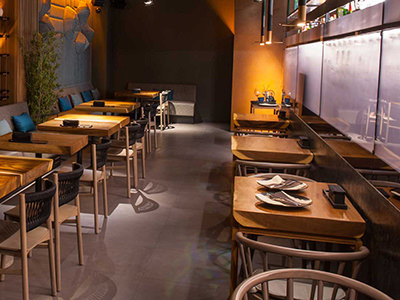
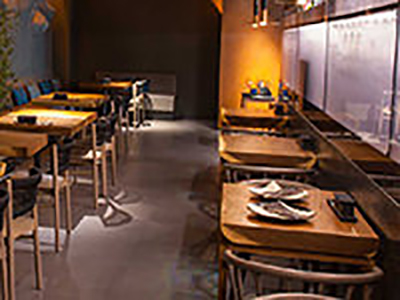
Changed photos

diff --git a/index.html b/index.html
@@ -57,11 +57,11 @@
     <main class="clearfix">
         <h1>Products</h1>
         <picture class="photoA">
-            <source media="(max-width: 200px)" srcset="images/restauraunt-assets/restauraunt200.jpg">
             <source media="(max-width: 400px)" srcset="images/restauraunt-assets/restauraunt400.jpg">
-            <source media="(max-width: 600px)" srcset="images/restauraunt-assets/restauraunt600.jpg">
             <source media="(max-width: 800px)" srcset="images/restauraunt-assets/restauraunt800.jpg">
-            <img src="images/restauraunt-assets/restauraunt800.jpg" alt="The Loft area of the restauraunt">
+            <source media="(max-width: 1200px)" srcset="images/restauraunt-assets/restauraunt1200.jpg">
+            <!-- <source media="(max-width: 800px)" srcset="images/restauraunt-assets/restauraunt800.jpg"> -->
+            <img src="images/restauraunt-assets/restauraunt.jpg" alt="The Loft area of the restauraunt">
             <h4>The Back Loft</h4>
         </picture>
         <p>The page name should almost exactly match the menu item. 
